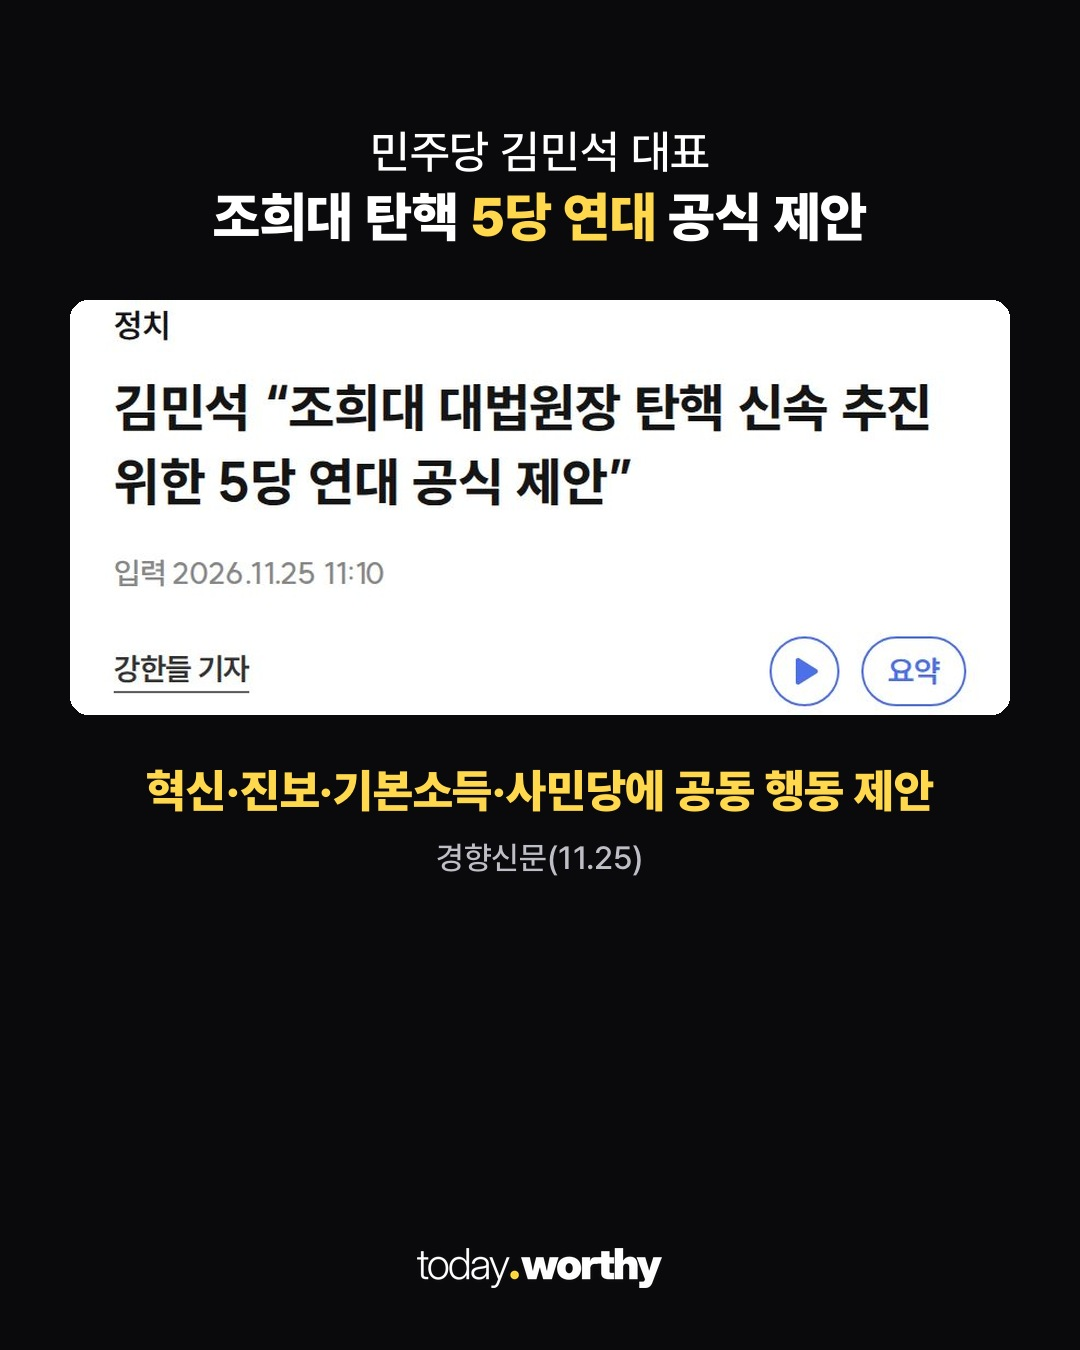
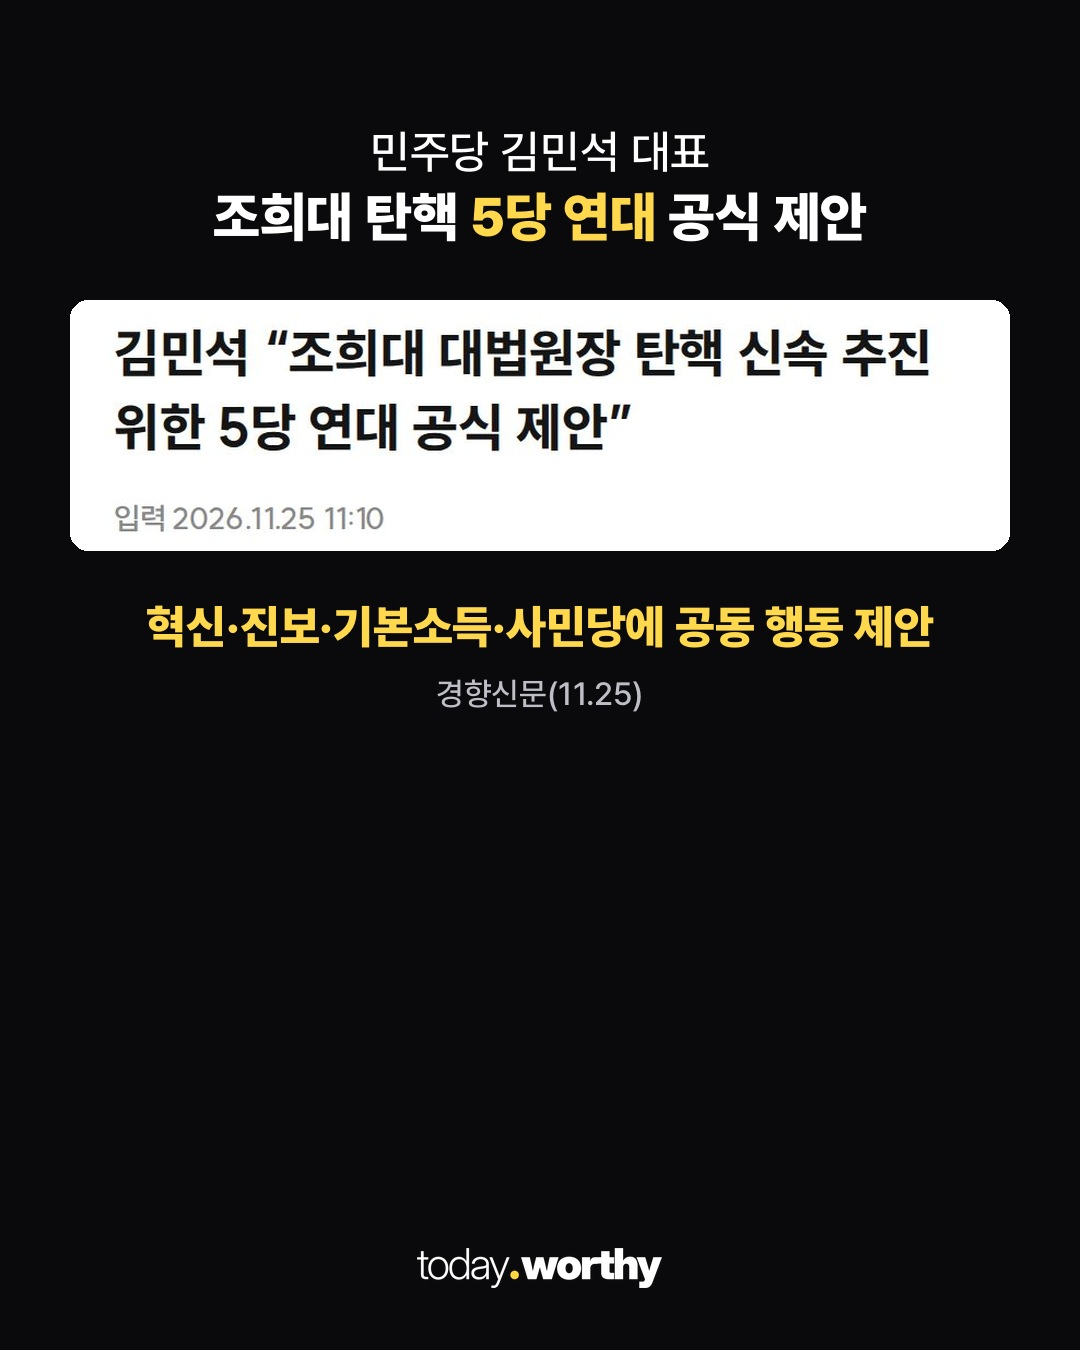
manual: 조희대 탄핵 캡처 정리·장수 줄임·CTA(렌더만)

Changed region(s): [[0.0611, 0.2178, 0.9472, 0.5289], [0.1222, 0.56, 0.8861, 0.6533]]

diff --git a/media/20261125-johuidae/build_cards.py b/media/20261125-johuidae/build_cards.py
@@ -67,9 +67,9 @@ def panel(rows, h=640, gap=None):
 
 def cap(src, box, h):
     im = op(src).crop(box); return im.resize((round(im.width * h / im.height), h), Image.LANCZOS) if im.width * h / im.height <= 940 else im.resize((940, round(im.height * 940 / im.width)), Image.LANCZOS)
-frame(("민주당 김민석 대표", "조희대 탄핵 '5당 연대' 공식 제안"), cap("khan.jpg", (0, 320, 860, 700), 420),
+frame(("민주당 김민석 대표", "조희대 탄핵 '5당 연대' 공식 제안"), cap("khan.jpg", (0, 370, 860, 600), 300),
       "혁신·진보·기본소득·사민당에 '공동 행동' 제안", "경향신문(11.25)").save(O / "c02.jpg", quality=93)
-frame(("그런데 조국혁신당은", "\"지나치게 '추상적'\""), cap("dailian.jpg", (0, 0, 860, 600), 560),
+frame(("그런데 조국혁신당은", "\"지나치게 '추상적'\""), cap("dailian.jpg", (0, 0, 860, 300), 330),
       "\"절차·일정부터 합의하자\" 역제안", "데일리안(11.25)").save(O / "c03.jpg", quality=93)
 frame(("신장식 혁신당 대표", "\"탄핵은 선언이 아니라 '실천'\""), cap("khan.jpg", (0, 3622, 860, 3985), 370),
       "12·3 2주년 앞두고 '공동 탄핵추진단' 요구", "경향신문(11.25)").save(O / "c04.jpg", quality=93)
